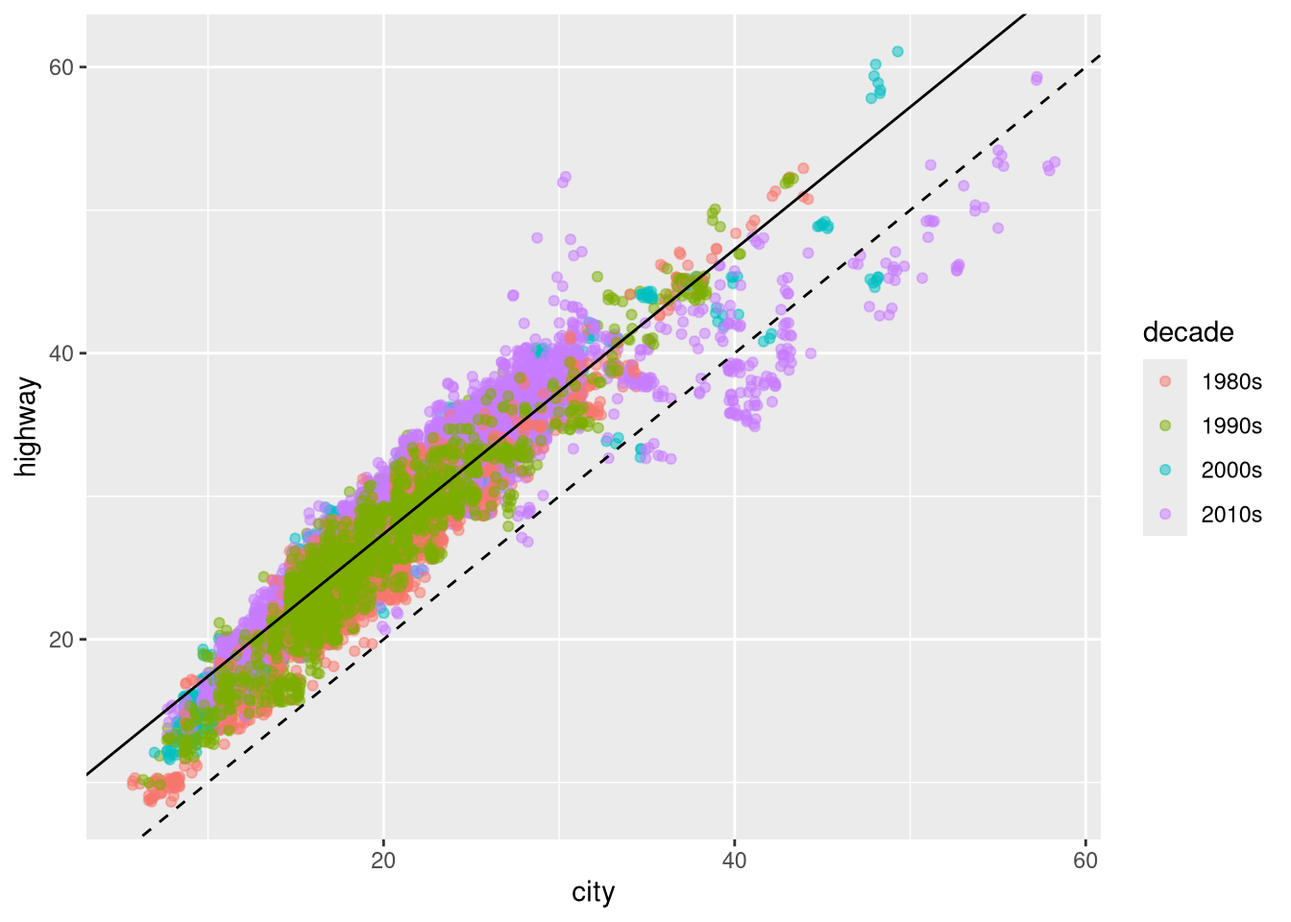
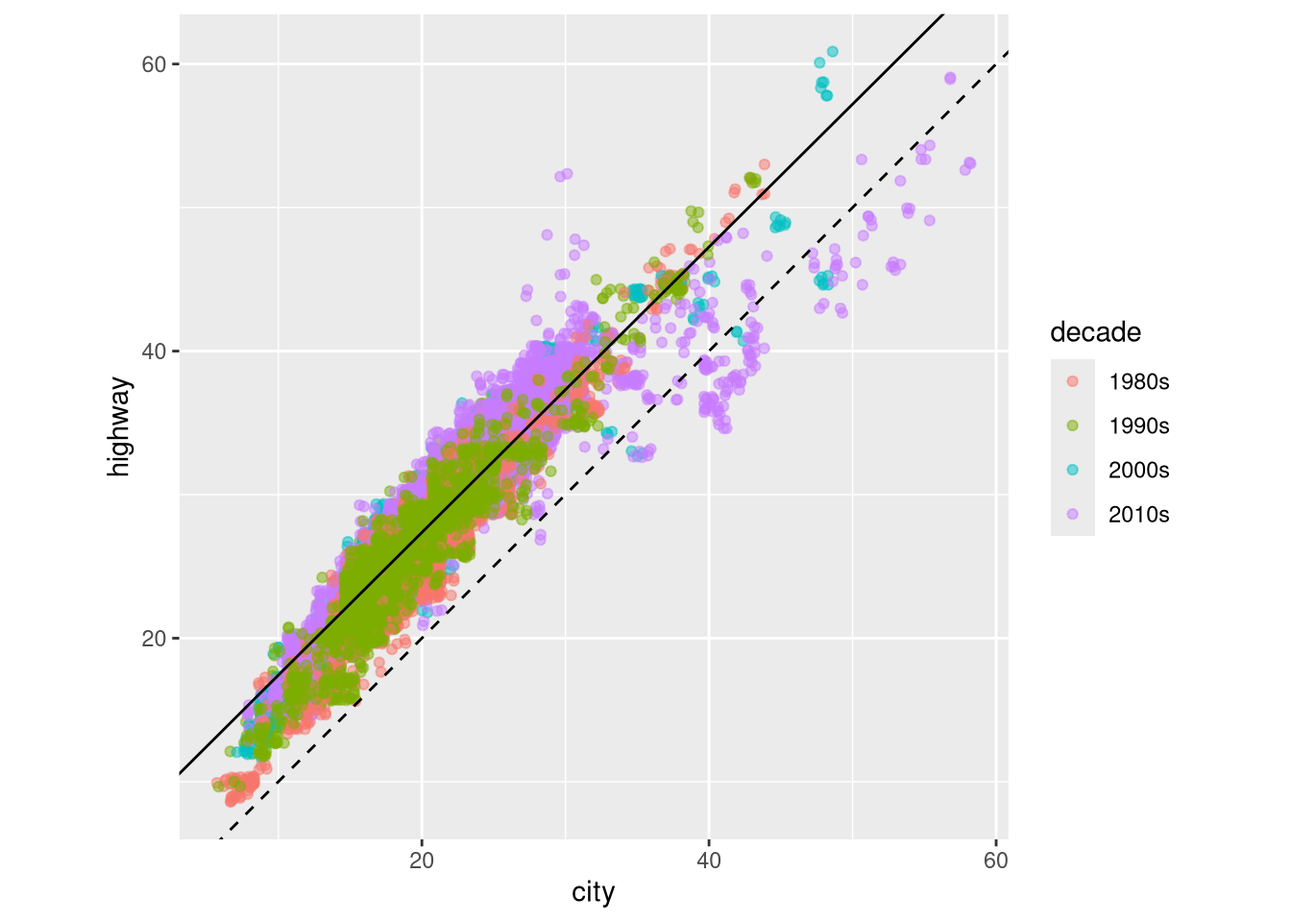
Update - contain instructions better.

diff --git a/docs/lab/19-ggplot2-sol.html b/docs/lab/19-ggplot2-sol.html
@@ -113,7 +113,7 @@ pre > code.sourceCode > span > a:first-child::before { text-decoration: underlin
 
 <meta property="og:title" content="2.2.a - Class Activity – STAT 1080 - Fall 2026">
 <meta property="og:description" content="Homepage for STAT 1080 - Data and the Stories They Tell.">
-<meta property="og:image" content="https://srvanderplas.github.io/stat1080/lab/19-ggplot2-sol_files/figure-html/unnamed-chunk-6-1.png">
+<meta property="og:image" content="https://srvanderplas.github.io/stat1080/lab/19-ggplot2-sol_files/figure-html/unnamed-chunk-4-1.png">
 <meta property="og:site_name" content="STAT 1080 - Fall 2026">
 <meta property="og:image:height" content="960">
 <meta property="og:image:width" content="1344">
@@ -408,11 +408,11 @@ pre > code.sourceCode > span > a:first-child::before { text-decoration: underlin
     <h2 id="toc-title">On this page</h2>
    
   <ul>
-  <li><a href="#problem" id="toc-problem" class="nav-link active" data-scroll-target="#problem"><span class="header-section-number">1</span> Problem</a></li>
-  <li><a href="#problem-1" id="toc-problem-1" class="nav-link" data-scroll-target="#problem-1"><span class="header-section-number">2</span> Problem</a></li>
-  <li><a href="#problem-2" id="toc-problem-2" class="nav-link" data-scroll-target="#problem-2"><span class="header-section-number">3</span> Problem</a></li>
-  <li><a href="#problem-3" id="toc-problem-3" class="nav-link" data-scroll-target="#problem-3"><span class="header-section-number">4</span> Problem</a></li>
-  <li><a href="#problem-4" id="toc-problem-4" class="nav-link" data-scroll-target="#problem-4"><span class="header-section-number">5</span> Problem</a></li>
+  <li><a href="#problem-types-of-variables" id="toc-problem-types-of-variables" class="nav-link active" data-scroll-target="#problem-types-of-variables"><span class="header-section-number">1</span> Problem: Types of Variables</a></li>
+  <li><a href="#problem-calculating-quantiles" id="toc-problem-calculating-quantiles" class="nav-link" data-scroll-target="#problem-calculating-quantiles"><span class="header-section-number">2</span> Problem: Calculating Quantiles</a></li>
+  <li><a href="#problem-variable-interpretation" id="toc-problem-variable-interpretation" class="nav-link" data-scroll-target="#problem-variable-interpretation"><span class="header-section-number">3</span> Problem: Variable Interpretation</a></li>
+  <li><a href="#problem-city-and-highway-mileage" id="toc-problem-city-and-highway-mileage" class="nav-link" data-scroll-target="#problem-city-and-highway-mileage"><span class="header-section-number">4</span> Problem: City and Highway Mileage</a></li>
+  <li><a href="#problem-plot-modifications" id="toc-problem-plot-modifications" class="nav-link" data-scroll-target="#problem-plot-modifications"><span class="header-section-number">5</span> Problem: Plot Modifications</a></li>
   </ul>
 <div class="toc-actions"><ul><li><a href="https://srvanderplas.github.io/stat1080/issues/new" class="toc-action"><i class="bi bi-git"></i>Report an issue</a></li></ul></div></nav>
     </div>
@@ -439,35 +439,33 @@ pre > code.sourceCode > span > a:first-child::before { text-decoration: underlin
 </header>
 
 
-<p>This assignment is intended to give you experience using <code>ggplot2</code> as well as developing an understanding of quantiles in numeric data. For this assignment, we will be using the <code>mpg_hawkes</code> dataset available in the <code>stat1080r</code> package. Recall from the homework assignments that this package is installed using the command <code>install.packages("stat1080r", repos = "https://beanb2.r-universe.dev")</code>. Remember that you only need to install this package once per semester. However, you still need to use <code>library(stat1080r)</code> each time you start R and want to use it. Do not try to run the following block of code until the <code>stat1080r</code> package has been installed.</p>
-<div class="cell">
-<div class="code-copy-outer-scaffold"><div class="sourceCode cell-code" id="cb1"><pre class="sourceCode r code-with-copy"><code class="sourceCode r"><span id="cb1-1"><a href="#cb1-1" aria-hidden="true" tabindex="-1"></a><span class="fu">library</span>(tidyverse)</span>
-<span id="cb1-2"><a href="#cb1-2" aria-hidden="true" tabindex="-1"></a><span class="fu">library</span>(stat1080r)</span></code></pre></div><button title="Copy to Clipboard" class="code-copy-button"><i class="bi"></i></button></div>
+<p>This assignment is intended to give you experience using <code>ggplot2</code> as well as developing an understanding of quantiles in numeric data. For this assignment, we will be using the <code>mpg_hawkes</code> dataset available in the <code>stat1080r</code> package.</p>
+<div class="callout callout-style-default callout-note callout-titled">
+<div class="callout-header d-flex align-content-center collapsed" data-bs-toggle="collapse" data-bs-target=".callout-1-contents" aria-controls="callout-1" aria-expanded="false" aria-label="Toggle callout">
+<div class="callout-icon-container">
+<i class="callout-icon"></i>
+</div>
+<div class="callout-title-container flex-fill">
+<span class="screen-reader-only">Note</span>Setup: <code>stat1080r</code>
+</div>
+<div class="callout-btn-toggle d-inline-block border-0 py-1 ps-1 pe-0 float-end"><i class="callout-toggle"></i></div>
+</div>
+<div id="callout-1" class="callout-1-contents callout-collapse collapse">
+<div class="callout-body-container callout-body">
+<p>You only need to install this package once per semester, using <code>install.packages("stat1080r", repos = "https://beanb2.r-universe.dev")</code>. However, you still need to use <code>library(stat1080r)</code> each time you start R. The block of code below will check that <code>stat1080r</code> is installed, and if not, it will install it before loading the library. It will also check that essential packages within the tidyverse are installed, and if not, will install those packages.</p>
+</div>
+</div>
 </div>
 <p>This assignment will focus on the <code>mpg_hawkes</code> dataset. For more information about the variables in <code>mpg_hawkes</code>, please use the <code>?mpg_hawkes</code> command in the console. Note that the dataset will only be available to use after running <code>library(stat1080r)</code> in your R session.</p>
-<p>The following code takes <code>mpg_hawkes</code> and creates two new variables. The first variable (<code>decade</code>) is a factor based on the decade the vehicle was made. The second variable (<code>v_class_2</code>) is a factor based on the vehicle type, after using “regular expressions” to group some smaller categories into larger groups. <strong>Note that you must run this provided code in order to answer the rest of the questions in this assignment.</strong></p>
-<div class="cell">
-<div class="code-copy-outer-scaffold"><div class="sourceCode cell-code" id="cb2"><pre class="sourceCode r code-with-copy"><code class="sourceCode r"><span id="cb2-1"><a href="#cb2-1" aria-hidden="true" tabindex="-1"></a>mpg_hawkes <span class="ot">&lt;-</span> mpg_hawkes <span class="sc">|&gt;</span> </span>
-<span id="cb2-2"><a href="#cb2-2" aria-hidden="true" tabindex="-1"></a>  <span class="fu">mutate</span>(<span class="at">decade =</span> <span class="fu">case_when</span>(year <span class="sc">&gt;=</span> <span class="dv">1980</span> <span class="sc">&amp;</span> year <span class="sc">&lt;</span> <span class="dv">1990</span> <span class="sc">~</span> <span class="st">"1980s"</span>,</span>
-<span id="cb2-3"><a href="#cb2-3" aria-hidden="true" tabindex="-1"></a>                            year <span class="sc">&gt;=</span> <span class="dv">1990</span> <span class="sc">&amp;</span> year <span class="sc">&lt;</span> <span class="dv">2000</span> <span class="sc">~</span> <span class="st">"1990s"</span>,</span>
-<span id="cb2-4"><a href="#cb2-4" aria-hidden="true" tabindex="-1"></a>                            year <span class="sc">&gt;=</span> <span class="dv">2000</span> <span class="sc">&amp;</span> year <span class="sc">&lt;</span> <span class="dv">2010</span> <span class="sc">~</span> <span class="st">"2000s"</span>,</span>
-<span id="cb2-5"><a href="#cb2-5" aria-hidden="true" tabindex="-1"></a>                            year <span class="sc">&gt;=</span> <span class="dv">2010</span> <span class="sc">&amp;</span> year <span class="sc">&lt;</span> <span class="dv">2020</span> <span class="sc">~</span> <span class="st">"2010s"</span>),</span>
-<span id="cb2-6"><a href="#cb2-6" aria-hidden="true" tabindex="-1"></a>         <span class="at">v_class_2 =</span> <span class="fu">case_when</span>(<span class="fu">regexpr</span>(<span class="st">"Cars"</span>, VClass) <span class="sc">&gt;</span> <span class="dv">0</span> <span class="sc">~</span> <span class="st">"Cars"</span>,</span>
-<span id="cb2-7"><a href="#cb2-7" aria-hidden="true" tabindex="-1"></a>                               <span class="fu">regexpr</span>(<span class="st">"Two Seaters"</span>, VClass) <span class="sc">&gt;</span> <span class="dv">0</span> <span class="sc">~</span> <span class="st">"Cars"</span>,</span>
-<span id="cb2-8"><a href="#cb2-8" aria-hidden="true" tabindex="-1"></a>                               <span class="fu">regexpr</span>(<span class="st">"Utility"</span>, VClass) <span class="sc">&gt;</span> <span class="dv">0</span> <span class="sc">~</span> <span class="st">"SUV/Van"</span>,</span>
-<span id="cb2-9"><a href="#cb2-9" aria-hidden="true" tabindex="-1"></a>                               <span class="fu">regexpr</span>(<span class="st">"[Vv]an"</span>, VClass) <span class="sc">&gt;</span> <span class="dv">0</span> <span class="sc">~</span> <span class="st">"SUV/Van"</span>,</span>
-<span id="cb2-10"><a href="#cb2-10" aria-hidden="true" tabindex="-1"></a>                               <span class="fu">regexpr</span>(<span class="st">"Truck"</span>, VClass) <span class="sc">&gt;</span> <span class="dv">0</span> <span class="sc">~</span> <span class="st">"Trucks"</span>,</span>
-<span id="cb2-11"><a href="#cb2-11" aria-hidden="true" tabindex="-1"></a>                               <span class="cn">TRUE</span> <span class="sc">~</span> <span class="st">"Other"</span>)</span>
-<span id="cb2-12"><a href="#cb2-12" aria-hidden="true" tabindex="-1"></a>  )</span></code></pre></div><button title="Copy to Clipboard" class="code-copy-button"><i class="bi"></i></button></div>
-</div>
-<section id="problem" class="level1" data-number="1">
-<h1 data-number="1"><span class="header-section-number">1</span> Problem</h1>
+<p>The following code takes <code>mpg_hawkes</code> and creates two new variables. The first variable, <code>decade</code>, is a <strong>factor</strong> variable that provides the decade the vehicle was made. The second variable, <code>v_class_2</code>, is a <strong>factor</strong> variable that provides the vehicle type. I have used <em>regular expressions</em> to group some smaller categories into larger groups. <strong>Note that you must run this provided code in order to answer the rest of the questions in this assignment.</strong></p>
+<section id="problem-types-of-variables" class="level1" data-number="1">
+<h1 data-number="1"><span class="header-section-number">1</span> Problem: Types of Variables</h1>
 <p>The following code considers a subset of the variables in <code>mpg_hawkes</code></p>
 <div class="cell">
-<div class="code-copy-outer-scaffold"><div class="sourceCode cell-code" id="cb3"><pre class="sourceCode r code-with-copy"><code class="sourceCode r"><span id="cb3-1"><a href="#cb3-1" aria-hidden="true" tabindex="-1"></a>mpg_select <span class="ot">&lt;-</span> mpg_hawkes <span class="sc">|&gt;</span></span>
-<span id="cb3-2"><a href="#cb3-2" aria-hidden="true" tabindex="-1"></a>  <span class="fu">select</span>(city, fuelType, trans, year)</span>
-<span id="cb3-3"><a href="#cb3-3" aria-hidden="true" tabindex="-1"></a></span>
-<span id="cb3-4"><a href="#cb3-4" aria-hidden="true" tabindex="-1"></a><span class="fu">head</span>(mpg_select)</span></code></pre></div><button title="Copy to Clipboard" class="code-copy-button"><i class="bi"></i></button></div>
+<div class="code-copy-outer-scaffold"><div class="sourceCode cell-code" id="cb1"><pre class="sourceCode r code-with-copy"><code class="sourceCode r"><span id="cb1-1"><a href="#cb1-1" aria-hidden="true" tabindex="-1"></a>mpg_select <span class="ot">&lt;-</span> mpg_hawkes <span class="sc">|&gt;</span></span>
+<span id="cb1-2"><a href="#cb1-2" aria-hidden="true" tabindex="-1"></a>  <span class="fu">select</span>(city, fuelType, trans, year)</span>
+<span id="cb1-3"><a href="#cb1-3" aria-hidden="true" tabindex="-1"></a></span>
+<span id="cb1-4"><a href="#cb1-4" aria-hidden="true" tabindex="-1"></a><span class="fu">head</span>(mpg_select)</span></code></pre></div><button title="Copy to Clipboard" class="code-copy-button"><i class="bi"></i></button></div>
 <div class="cell-output cell-output-stdout">
 <pre><code># A tibble: 6 × 4
    city fuelType trans            year
@@ -481,17 +479,19 @@ pre > code.sourceCode > span > a:first-child::before { text-decoration: underlin
 </div>
 </div>
 <p>Of these four variables, which are “quantitative” and which are “categorical” (i.e., “qualitative”), <strong>please provide your answer to this question in the associated Canvas quiz.</strong></p>
+<blockquote class="blockquote">
 <p><em><code>city</code> and <code>year</code> are quantitative variables because they are numbers that can be ordered, while <code>fuelType</code> and <code>trans</code> are categorical variables.</em></p>
+</blockquote>
 </section>
-<section id="problem-1" class="level1" data-number="2">
-<h1 data-number="2"><span class="header-section-number">2</span> Problem</h1>
+<section id="problem-calculating-quantiles" class="level1" data-number="2">
+<h1 data-number="2"><span class="header-section-number">2</span> Problem: Calculating Quantiles</h1>
 <p>The following code uses the <code>quantile</code> function to determine the 90th percentile of city miles per gallon (mpg). This is the mpg quantity for which 90 percent of the 38,000+ vehicles in our dataset have city mpg ratings less than or equal to this value.</p>
 <div class="cell">
-<div class="code-copy-outer-scaffold"><div class="sourceCode cell-code" id="cb5"><pre class="sourceCode r code-with-copy"><code class="sourceCode r"><span id="cb5-1"><a href="#cb5-1" aria-hidden="true" tabindex="-1"></a>q90_city <span class="ot">&lt;-</span> mpg_hawkes <span class="sc">|&gt;</span></span>
-<span id="cb5-2"><a href="#cb5-2" aria-hidden="true" tabindex="-1"></a>  <span class="fu">pull</span>(city) <span class="sc">|&gt;</span> <span class="co"># extract the city column as a vector</span></span>
-<span id="cb5-3"><a href="#cb5-3" aria-hidden="true" tabindex="-1"></a>  <span class="fu">quantile</span>(<span class="fl">0.9</span>) <span class="co"># extract the 90th percentile of the city column vector</span></span>
-<span id="cb5-4"><a href="#cb5-4" aria-hidden="true" tabindex="-1"></a></span>
-<span id="cb5-5"><a href="#cb5-5" aria-hidden="true" tabindex="-1"></a>q90_city</span></code></pre></div><button title="Copy to Clipboard" class="code-copy-button"><i class="bi"></i></button></div>
+<div class="code-copy-outer-scaffold"><div class="sourceCode cell-code" id="cb3"><pre class="sourceCode r code-with-copy"><code class="sourceCode r"><span id="cb3-1"><a href="#cb3-1" aria-hidden="true" tabindex="-1"></a>q90_city <span class="ot">&lt;-</span> mpg_hawkes <span class="sc">|&gt;</span></span>
+<span id="cb3-2"><a href="#cb3-2" aria-hidden="true" tabindex="-1"></a>  <span class="fu">pull</span>(city) <span class="sc">|&gt;</span> <span class="co"># extract the city column as a vector</span></span>
+<span id="cb3-3"><a href="#cb3-3" aria-hidden="true" tabindex="-1"></a>  <span class="fu">quantile</span>(<span class="fl">0.9</span>) <span class="co"># extract the 90th percentile of the city column vector</span></span>
+<span id="cb3-4"><a href="#cb3-4" aria-hidden="true" tabindex="-1"></a></span>
+<span id="cb3-5"><a href="#cb3-5" aria-hidden="true" tabindex="-1"></a>q90_city</span></code></pre></div><button title="Copy to Clipboard" class="code-copy-button"><i class="bi"></i></button></div>
 <div class="cell-output cell-output-stdout">
 <pre><code>90% 
  24 </code></pre>
@@ -499,61 +499,106 @@ pre > code.sourceCode > span > a:first-child::before { text-decoration: underlin
 </div>
 <p>Using the above code as reference, find the 90th percentile <strong>highway</strong> mpg rating for the vehicles in our dataset <strong>and then note this amount in your Canvas quiz</strong>.</p>
 <div class="cell">
-<div class="code-copy-outer-scaffold"><div class="sourceCode cell-code" id="cb7"><pre class="sourceCode r code-with-copy"><code class="sourceCode r"><span id="cb7-1"><a href="#cb7-1" aria-hidden="true" tabindex="-1"></a>q90_highway <span class="ot">&lt;-</span> mpg_hawkes <span class="sc">|&gt;</span></span>
-<span id="cb7-2"><a href="#cb7-2" aria-hidden="true" tabindex="-1"></a>  <span class="fu">pull</span>(highway) <span class="sc">|&gt;</span></span>
-<span id="cb7-3"><a href="#cb7-3" aria-hidden="true" tabindex="-1"></a>  <span class="fu">quantile</span>(<span class="fl">0.9</span>)</span>
-<span id="cb7-4"><a href="#cb7-4" aria-hidden="true" tabindex="-1"></a></span>
-<span id="cb7-5"><a href="#cb7-5" aria-hidden="true" tabindex="-1"></a>q90_highway</span></code></pre></div><button title="Copy to Clipboard" class="code-copy-button"><i class="bi"></i></button></div>
+<div class="code-copy-outer-scaffold"><div class="sourceCode cell-code" id="cb5"><pre class="sourceCode r code-with-copy"><code class="sourceCode r"><span id="cb5-1"><a href="#cb5-1" aria-hidden="true" tabindex="-1"></a>q90_highway <span class="ot">&lt;-</span> mpg_hawkes <span class="sc">|&gt;</span></span>
+<span id="cb5-2"><a href="#cb5-2" aria-hidden="true" tabindex="-1"></a>  <span class="fu">pull</span>(highway) <span class="sc">|&gt;</span></span>
+<span id="cb5-3"><a href="#cb5-3" aria-hidden="true" tabindex="-1"></a>  <span class="fu">quantile</span>(<span class="fl">0.9</span>)</span>
+<span id="cb5-4"><a href="#cb5-4" aria-hidden="true" tabindex="-1"></a></span>
+<span id="cb5-5"><a href="#cb5-5" aria-hidden="true" tabindex="-1"></a>q90_highway</span></code></pre></div><button title="Copy to Clipboard" class="code-copy-button"><i class="bi"></i></button></div>
 <div class="cell-output cell-output-stdout">
 <pre><code>90% 
  31 </code></pre>
 </div>
 </div>
 </section>
-<section id="problem-2" class="level1" data-number="3">
-<h1 data-number="3"><span class="header-section-number">3</span> Problem</h1>
+<section id="problem-variable-interpretation" class="level1" data-number="3">
+<h1 data-number="3"><span class="header-section-number">3</span> Problem: Variable Interpretation</h1>
 <p><strong>Discuss briefly (2 min or less) with a partner</strong> Based on what you know about vehicles, why do you think that the highway mpg are larger than city mpg?</p>
+<blockquote class="blockquote">
 <p><em>Vehicles traveling in the city have to stop and accelerate constantly, which is not very efficient. Vehicles on the highway are able to travel more efficiently because they are able to maintain high speeds without having to stop.</em></p>
+</blockquote>
 </section>
-<section id="problem-3" class="level1" data-number="4">
-<h1 data-number="4"><span class="header-section-number">4</span> Problem</h1>
-<p>Create a plot that compares city (x-axis) vs highway (y-axis) mileage for “Cars” (as defined in the <code>v_class_2</code> variable) from the 1980s. This will require you to first subset the rows of the data and then use <code>ggplot2</code> to visualize. The provided code will create the “line of equality” (i.e., the line where x = y) which will help us to visualize how different city and highway mileage are for vehicles in this decade. Points above the line are vehicles for which highway mpg &gt; city mpg, points below are vehicles for which city mpg &gt; highway mpg.</p>
+<section id="problem-city-and-highway-mileage" class="level1" data-number="4">
+<h1 data-number="4"><span class="header-section-number">4</span> Problem: City and Highway Mileage</h1>
+<p>Create a plot that compares city (x-axis) vs highway (y-axis) mileage for “Cars” (as defined in the <code>v_class_2</code> variable) from the 1980s.</p>
+<p>HINT: This will require a filter statement with two logical conditions.</p>
+<p>This will require you to first subset the rows of the data and then use <code>ggplot2</code> to visualize. The provided code will create the “line of equality” (i.e., the line where x = y) which will help us to visualize how different city and highway mileage are for vehicles in this decade. Points above the line are vehicles for which highway mpg &gt; city mpg, points below are vehicles for which city mpg &gt; highway mpg.</p>
 <div class="cell">
-<div class="code-copy-outer-scaffold"><div class="sourceCode cell-code" id="cb9"><pre class="sourceCode r code-with-copy"><code class="sourceCode r"><span id="cb9-1"><a href="#cb9-1" aria-hidden="true" tabindex="-1"></a>mpg_hawkes <span class="sc">|&gt;</span></span>
-<span id="cb9-2"><a href="#cb9-2" aria-hidden="true" tabindex="-1"></a>  <span class="fu">filter</span>(v_class_2 <span class="sc">==</span> <span class="st">"Cars"</span> <span class="sc">&amp;</span> decade <span class="sc">==</span> <span class="st">"1980s"</span>) <span class="sc">|&gt;</span></span>
-<span id="cb9-3"><a href="#cb9-3" aria-hidden="true" tabindex="-1"></a>  <span class="fu">ggplot</span>(<span class="fu">aes</span>(<span class="at">x =</span> city, <span class="at">y =</span> highway)) <span class="sc">+</span></span>
-<span id="cb9-4"><a href="#cb9-4" aria-hidden="true" tabindex="-1"></a>  <span class="fu">geom_point</span>() <span class="sc">+</span> </span>
-<span id="cb9-5"><a href="#cb9-5" aria-hidden="true" tabindex="-1"></a>  <span class="fu">geom_abline</span>(<span class="at">slope =</span> <span class="dv">1</span>, <span class="at">intercept =</span> <span class="dv">0</span>, <span class="at">lty =</span> <span class="dv">2</span>)</span></code></pre></div><button title="Copy to Clipboard" class="code-copy-button"><i class="bi"></i></button></div>
+<div class="code-copy-outer-scaffold"><div class="sourceCode cell-code" id="cb7"><pre class="sourceCode r code-with-copy"><code class="sourceCode r"><span id="cb7-1"><a href="#cb7-1" aria-hidden="true" tabindex="-1"></a>mpg_hawkes <span class="sc">|&gt;</span></span>
+<span id="cb7-2"><a href="#cb7-2" aria-hidden="true" tabindex="-1"></a>  <span class="fu">filter</span>(v_class_2 <span class="sc">==</span> <span class="st">"Cars"</span> <span class="sc">&amp;</span> decade <span class="sc">==</span> <span class="st">"1980s"</span>) <span class="sc">|&gt;</span></span>
+<span id="cb7-3"><a href="#cb7-3" aria-hidden="true" tabindex="-1"></a>  <span class="fu">ggplot</span>(<span class="fu">aes</span>(<span class="at">x =</span> city, <span class="at">y =</span> highway)) <span class="sc">+</span></span>
+<span id="cb7-4"><a href="#cb7-4" aria-hidden="true" tabindex="-1"></a>  <span class="fu">geom_point</span>() <span class="sc">+</span> </span>
+<span id="cb7-5"><a href="#cb7-5" aria-hidden="true" tabindex="-1"></a>  <span class="fu">geom_abline</span>(<span class="at">slope =</span> <span class="dv">1</span>, <span class="at">intercept =</span> <span class="dv">0</span>, <span class="at">lty =</span> <span class="dv">2</span>)</span></code></pre></div><button title="Copy to Clipboard" class="code-copy-button"><i class="bi"></i></button></div>
 <div class="cell-output-display">
 <div>
 <figure class="figure">
-<p><img src="19-ggplot2-sol_files/figure-html/unnamed-chunk-6-1.png" class="img-fluid figure-img" width="672"></p>
+<p><img src="19-ggplot2-sol_files/figure-html/unnamed-chunk-4-1.png" class="img-fluid figure-img" width="672"></p>
 </figure>
 </div>
 </div>
 </div>
 </section>
-<section id="problem-4" class="level1" data-number="5">
-<h1 data-number="5"><span class="header-section-number">5</span> Problem</h1>
+<section id="problem-plot-modifications" class="level1" data-number="5">
+<h1 data-number="5"><span class="header-section-number">5</span> Problem: Plot Modifications</h1>
 <p>The following code makes the following adaptations to the visual you created in the previous problem.</p>
 <ul>
-<li>Plot vehicles across all decades, rather than just the 1980s, coloring each point based on the decade that the vehicle was produced.</li>
-<li>Use the <code>geom_jitter()</code> geometry to randomly move the points slightly up/down and left/right to help with “overplotting”, which is where we have two observations that have exactly the same x and y coordinates.</li>
+<li>Plot vehicles across all decades, rather than just the 1980s, coloring each point based on the decade that the vehicle was produced.<br>
+HINT: Remember that the <code>floor()</code> function rounds down to the nearest whole number. Can you use that, division, and multiplication to make a decade variable? You may want to take the numeric decade (say you’ve called it <code>decade</code>) and use <code>decade = factor(decade, ordered = T)</code> to convert it to a factor so that <code>ggplot2</code> interprets it as a categorical variable.</li>
+<li>Use the <code>geom_jitter()</code> geometry to randomly move the points slightly up/down and left/right to help with “overplotting” (multiple observations that have exactly the same x and y coordinates and are plotted on top of each other).</li>
 <li>Use the <code>alpha</code> argument to make the points semi-transparent, which will further aid with the overplotting issue in the graph with so many observations.</li>
 <li>Fit a “linear model” to the points to find the “line of best fit” between city and highway mileage and add it to the plot. This is the solid line.</li>
 <li>Provide the “line of equality” as in the previous plot. This is the dashed line.</li>
 </ul>
 <div class="cell">
-<div class="code-copy-outer-scaffold"><div class="sourceCode cell-code" id="cb10"><pre class="sourceCode r code-with-copy"><code class="sourceCode r"><span id="cb10-1"><a href="#cb10-1" aria-hidden="true" tabindex="-1"></a>mpg_cars <span class="ot">&lt;-</span> mpg_hawkes <span class="sc">|&gt;</span></span>
-<span id="cb10-2"><a href="#cb10-2" aria-hidden="true" tabindex="-1"></a>  <span class="fu">filter</span>(v_class_2 <span class="sc">==</span> <span class="st">"Cars"</span>) </span>
-<span id="cb10-3"><a href="#cb10-3" aria-hidden="true" tabindex="-1"></a></span>
-<span id="cb10-4"><a href="#cb10-4" aria-hidden="true" tabindex="-1"></a>mpg_lm <span class="ot">&lt;-</span> <span class="fu">lm</span>(highway <span class="sc">~</span> city, <span class="at">data =</span> mpg_cars)</span>
-<span id="cb10-5"><a href="#cb10-5" aria-hidden="true" tabindex="-1"></a></span>
-<span id="cb10-6"><a href="#cb10-6" aria-hidden="true" tabindex="-1"></a><span class="fu">ggplot</span>(mpg_cars, <span class="fu">aes</span>(<span class="at">x =</span> city, <span class="at">y =</span> highway, <span class="at">color =</span> decade)) <span class="sc">+</span></span>
-<span id="cb10-7"><a href="#cb10-7" aria-hidden="true" tabindex="-1"></a>  <span class="fu">geom_jitter</span>(<span class="at">alpha =</span> <span class="fl">0.5</span>) <span class="sc">+</span> </span>
-<span id="cb10-8"><a href="#cb10-8" aria-hidden="true" tabindex="-1"></a>  <span class="fu">geom_abline</span>(<span class="at">intercept =</span> <span class="dv">0</span>, <span class="at">slope =</span> <span class="dv">1</span>, <span class="at">lty =</span> <span class="dv">2</span>) <span class="sc">+</span> <span class="co"># line of equality</span></span>
-<span id="cb10-9"><a href="#cb10-9" aria-hidden="true" tabindex="-1"></a>  <span class="fu">geom_abline</span>(<span class="at">intercept =</span> mpg_lm<span class="sc">$</span>coefficients[<span class="dv">1</span>], <span class="co"># line of regression</span></span>
-<span id="cb10-10"><a href="#cb10-10" aria-hidden="true" tabindex="-1"></a>              <span class="at">slope =</span> mpg_lm<span class="sc">$</span>coefficients[<span class="dv">2</span>])</span></code></pre></div><button title="Copy to Clipboard" class="code-copy-button"><i class="bi"></i></button></div>
+<div class="code-copy-outer-scaffold"><div class="sourceCode cell-code" id="cb8"><pre class="sourceCode r code-with-copy"><code class="sourceCode r"><span id="cb8-1"><a href="#cb8-1" aria-hidden="true" tabindex="-1"></a>mpg_cars <span class="ot">&lt;-</span> mpg_hawkes <span class="sc">|&gt;</span></span>
+<span id="cb8-2"><a href="#cb8-2" aria-hidden="true" tabindex="-1"></a>  <span class="fu">filter</span>(v_class_2 <span class="sc">==</span> <span class="st">"Cars"</span>)</span>
+<span id="cb8-3"><a href="#cb8-3" aria-hidden="true" tabindex="-1"></a></span>
+<span id="cb8-4"><a href="#cb8-4" aria-hidden="true" tabindex="-1"></a><span class="fu">ggplot</span>(mpg_cars, <span class="fu">aes</span>(<span class="at">x =</span> city, <span class="at">y =</span> highway, <span class="at">color =</span> decade)) <span class="sc">+</span></span>
+<span id="cb8-5"><a href="#cb8-5" aria-hidden="true" tabindex="-1"></a>  <span class="fu">geom_jitter</span>(<span class="at">alpha =</span> <span class="fl">0.5</span>) <span class="sc">+</span> </span>
+<span id="cb8-6"><a href="#cb8-6" aria-hidden="true" tabindex="-1"></a>  <span class="fu">geom_abline</span>(<span class="at">intercept =</span> <span class="dv">0</span>, <span class="at">slope =</span> <span class="dv">1</span>, <span class="at">lty =</span> <span class="dv">2</span>) <span class="sc">+</span> <span class="co"># line of equality</span></span>
+<span id="cb8-7"><a href="#cb8-7" aria-hidden="true" tabindex="-1"></a>  <span class="fu">geom_smooth</span>(<span class="fu">aes</span>(<span class="at">x =</span> city, <span class="at">y =</span> highway),</span>
+<span id="cb8-8"><a href="#cb8-8" aria-hidden="true" tabindex="-1"></a>              <span class="at">inherit.aes =</span> F, <span class="at">method =</span> <span class="st">"lm"</span>, </span>
+<span id="cb8-9"><a href="#cb8-9" aria-hidden="true" tabindex="-1"></a>              <span class="at">color =</span> <span class="st">"black"</span>) <span class="sc">+</span> <span class="co"># regression line</span></span>
+<span id="cb8-10"><a href="#cb8-10" aria-hidden="true" tabindex="-1"></a>  <span class="fu">coord_fixed</span>()</span></code></pre></div><button title="Copy to Clipboard" class="code-copy-button"><i class="bi"></i></button></div>
+<div class="cell-output-display">
+<div>
+<figure class="figure">
+<p><img src="19-ggplot2-sol_files/figure-html/unnamed-chunk-5-1.png" class="img-fluid figure-img" width="672"></p>
+</figure>
+</div>
+</div>
+</div>
+<p>Another way to do this is to explicitly fit the linear regression (this allows you to actually see what the equation is and/or examine how well it fits), and then plot the regression line directly.</p>
+<div class="cell">
+<div class="code-copy-outer-scaffold"><div class="sourceCode cell-code" id="cb9"><pre class="sourceCode r code-with-copy"><code class="sourceCode r"><span id="cb9-1"><a href="#cb9-1" aria-hidden="true" tabindex="-1"></a>mpg_lm <span class="ot">&lt;-</span> <span class="fu">lm</span>(highway <span class="sc">~</span> city, <span class="at">data =</span> mpg_cars)</span>
+<span id="cb9-2"><a href="#cb9-2" aria-hidden="true" tabindex="-1"></a><span class="fu">summary</span>(mpg_lm)</span></code></pre></div><button title="Copy to Clipboard" class="code-copy-button"><i class="bi"></i></button></div>
+<div class="cell-output cell-output-stdout">
+<pre><code>
+Call:
+lm(formula = highway ~ city, data = mpg_cars)
+
+Residuals:
+     Min       1Q   Median       3Q      Max 
+-14.1886  -1.3680   0.5994   1.6103  14.6864 
+
+Coefficients:
+            Estimate Std. Error t value Pr(&gt;|t|)    
+(Intercept) 7.476697   0.055511   134.7   &lt;2e-16 ***
+city        0.994564   0.002774   358.5   &lt;2e-16 ***
+---
+Signif. codes:  0 '***' 0.001 '**' 0.01 '*' 0.05 '.' 0.1 ' ' 1
+
+Residual standard error: 2.057 on 19858 degrees of freedom
+Multiple R-squared:  0.8662,    Adjusted R-squared:  0.8662 
+F-statistic: 1.285e+05 on 1 and 19858 DF,  p-value: &lt; 2.2e-16</code></pre>
+</div>
+</div>
+<div class="cell">
+<div class="code-copy-outer-scaffold"><div class="sourceCode cell-code" id="cb11"><pre class="sourceCode r code-with-copy"><code class="sourceCode r"><span id="cb11-1"><a href="#cb11-1" aria-hidden="true" tabindex="-1"></a><span class="fu">ggplot</span>(mpg_cars, <span class="fu">aes</span>(<span class="at">x =</span> city, <span class="at">y =</span> highway, <span class="at">color =</span> decade)) <span class="sc">+</span></span>
+<span id="cb11-2"><a href="#cb11-2" aria-hidden="true" tabindex="-1"></a>  <span class="fu">geom_jitter</span>(<span class="at">alpha =</span> <span class="fl">0.5</span>) <span class="sc">+</span></span>
+<span id="cb11-3"><a href="#cb11-3" aria-hidden="true" tabindex="-1"></a>  <span class="fu">geom_abline</span>(<span class="at">intercept =</span> <span class="dv">0</span>, <span class="at">slope =</span> <span class="dv">1</span>, <span class="at">lty =</span> <span class="dv">2</span>) <span class="sc">+</span> <span class="co"># line of equality</span></span>
+<span id="cb11-4"><a href="#cb11-4" aria-hidden="true" tabindex="-1"></a>  <span class="fu">geom_abline</span>(<span class="at">intercept =</span> mpg_lm<span class="sc">$</span>coefficients[<span class="dv">1</span>], <span class="co"># line of regression</span></span>
+<span id="cb11-5"><a href="#cb11-5" aria-hidden="true" tabindex="-1"></a>              <span class="at">slope =</span> mpg_lm<span class="sc">$</span>coefficients[<span class="dv">2</span>]) <span class="sc">+</span> </span>
+<span id="cb11-6"><a href="#cb11-6" aria-hidden="true" tabindex="-1"></a>  <span class="fu">coord_fixed</span>()</span></code></pre></div><button title="Copy to Clipboard" class="code-copy-button"><i class="bi"></i></button></div>
 <div class="cell-output-display">
 <div>
 <figure class="figure">
@@ -562,8 +607,10 @@ pre > code.sourceCode > span > a:first-child::before { text-decoration: underlin
 </div>
 </div>
 </div>
-<p>Notice in this plot that there is a lot of purple points that fall well below the line of best fit, which means that the highway mileage was less than expected based on their city mileage. <strong>Discuss briefly (2 min or less) with a partner</strong> what might cause modern vehicles to have much higher city mileage (as compared to highway mileage) than vehicles from previous decades.</p>
+<p>Notice in these plots that there are a lot of purple points that fall well below the line of best fit, which means that the highway mileage was less than expected based on their city mileage. <strong>Discuss briefly (2 min or less) with a partner</strong> what might cause modern vehicles to have much higher city mileage (as compared to highway mileage) than vehicles from previous decades.</p>
+<blockquote class="blockquote">
 <p><em>Hybrid vehicles, which are a modern invention, use batteries to store power from braking and use it to drastically improve city mileage, which “breaks” the relationship we saw between city and highway mileage in previous decades.</em></p>
+</blockquote>
 
 
 </section>

diff --git a/docs/slides/08-bias-ethics.html b/docs/slides/08-bias-ethics.html
@@ -296,7 +296,7 @@
 </section>
 <section id="simpsons-paradox-visually" class="slide level2">
 <h2>Simpson’s Paradox, Visually</h2>
-<div class="cell quarto-layout-panel" data-fig-extra="fragment" data-layout-ncol="3">
+<div class="cell quarto-layout-panel" data-layout-ncol="3" data-fig-extra="fragment">
 <div class="quarto-layout-row">
 <div class="quarto-layout-cell" style="flex-basis: 33.3%;justify-content: flex-start;">
 <div class="quarto-figure quarto-figure-center">
